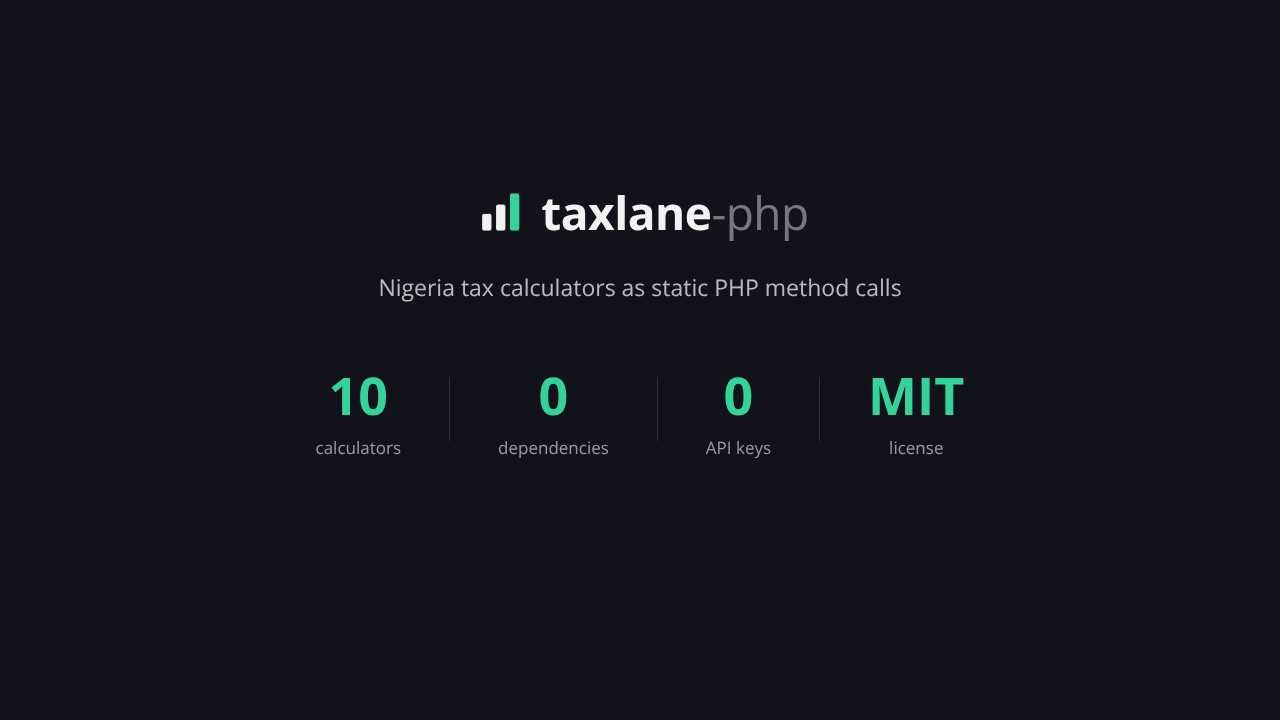
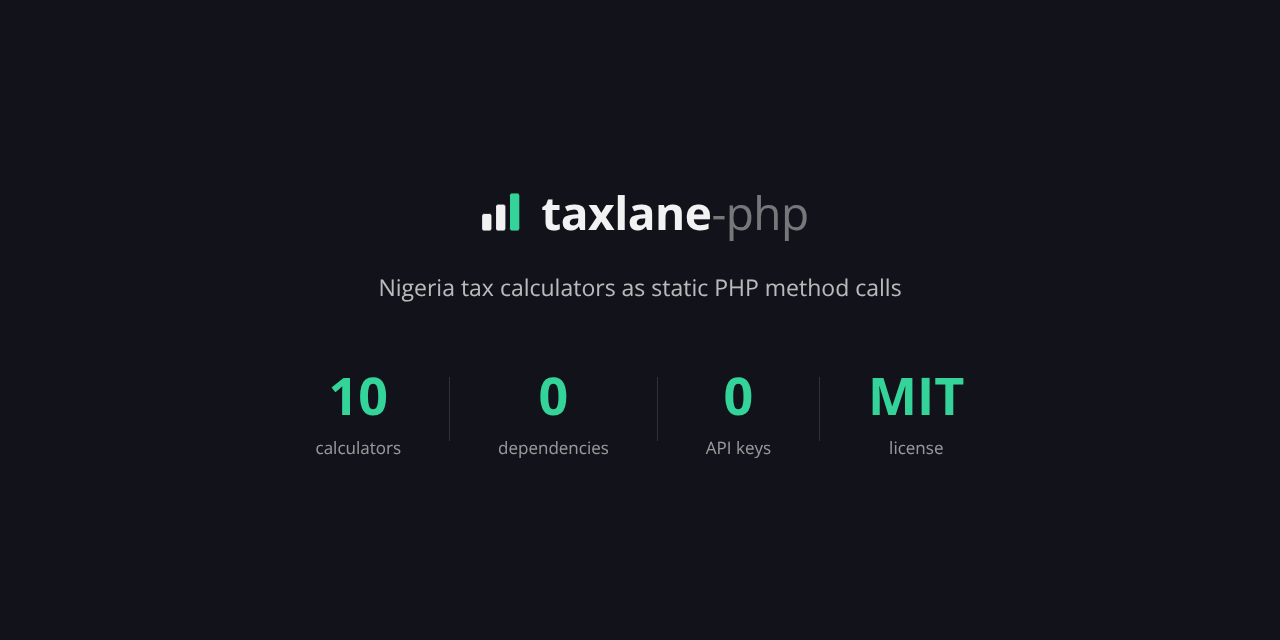
Fix social-preview screenshot canvas: 1280x640, not 1280x720/1326x720
Review on #9 found the committed PNGs didn't match the 1280x640 canvas
the HTML/PR claimed. agent/bin/render's newPage() has no viewport
override, so Playwright fell back to its stock 1280x720 default and
fullPage:true captured that full viewport — the extra ~80px was
invisible (dark/light background bleeds to fill it) but physically in
the file. Re-rendered all three with an explicit 1280x640 viewport and
a viewport-bound (non-fullPage) screenshot instead.

Candidate A was also 1326px wide: .code-ghost's `right: -40px` pushed
the ghost-code block 40px past the document's right edge. overflow:
hidden on html/body hid it visually, but scrollWidth (which fullPage
capture sizing uses) isn't clipped by overflow:hidden, so the overflow
still widened the captured page. Changed to `right: 0` so the element's
real layout box stays inside the 1280px canvas.

diff --git a/docs/design/social-preview/candidate-a-brand-lockup.html b/docs/design/social-preview/candidate-a-brand-lockup.html
@@ -15,7 +15,7 @@
   .code-ghost {
     position: absolute;
     top: 64px;
-    right: -40px;
+    right: 0;
     width: 620px;
     font-family: ui-monospace, SFMono-Regular, Menlo, Consolas, monospace;
     font-size: 19px;
